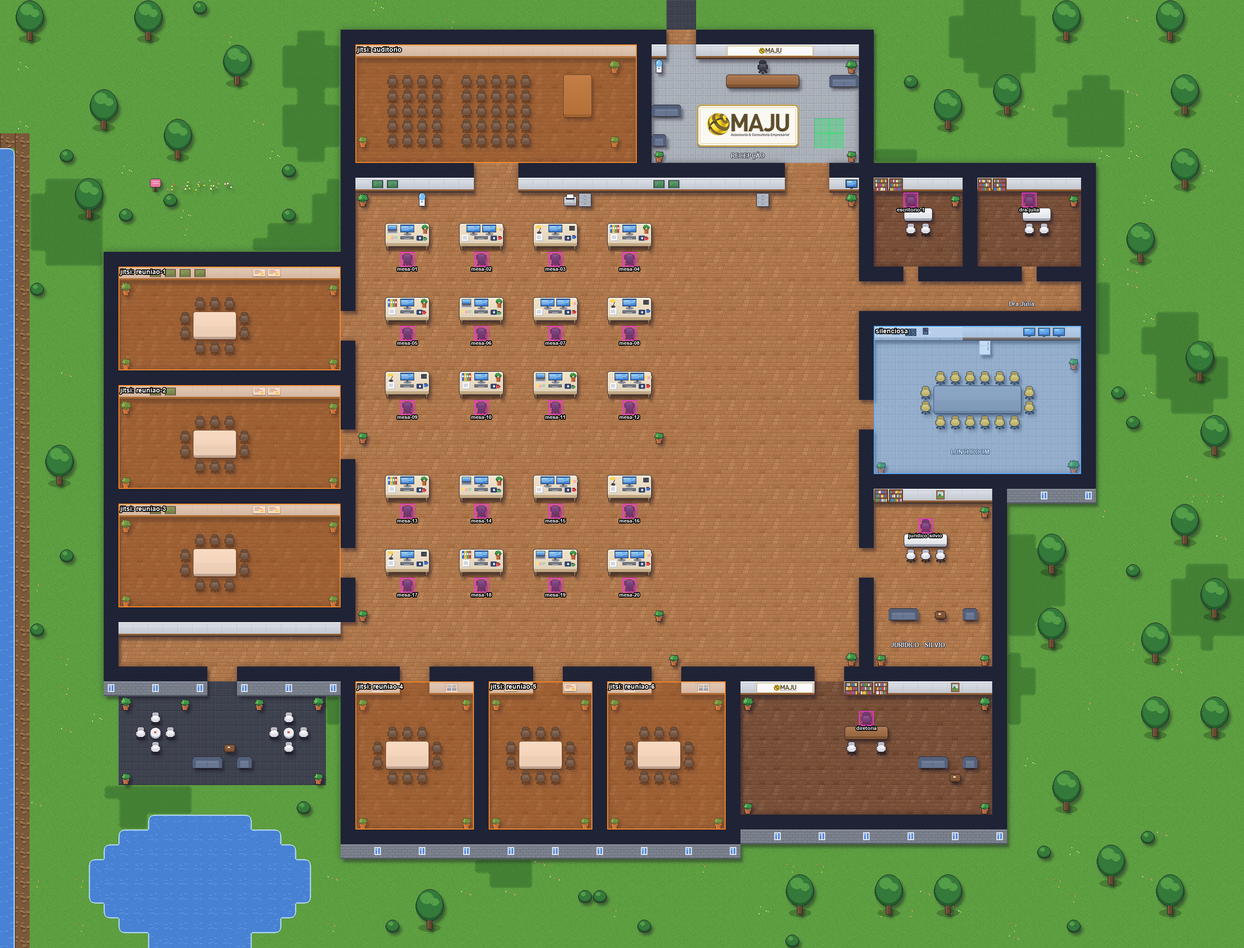
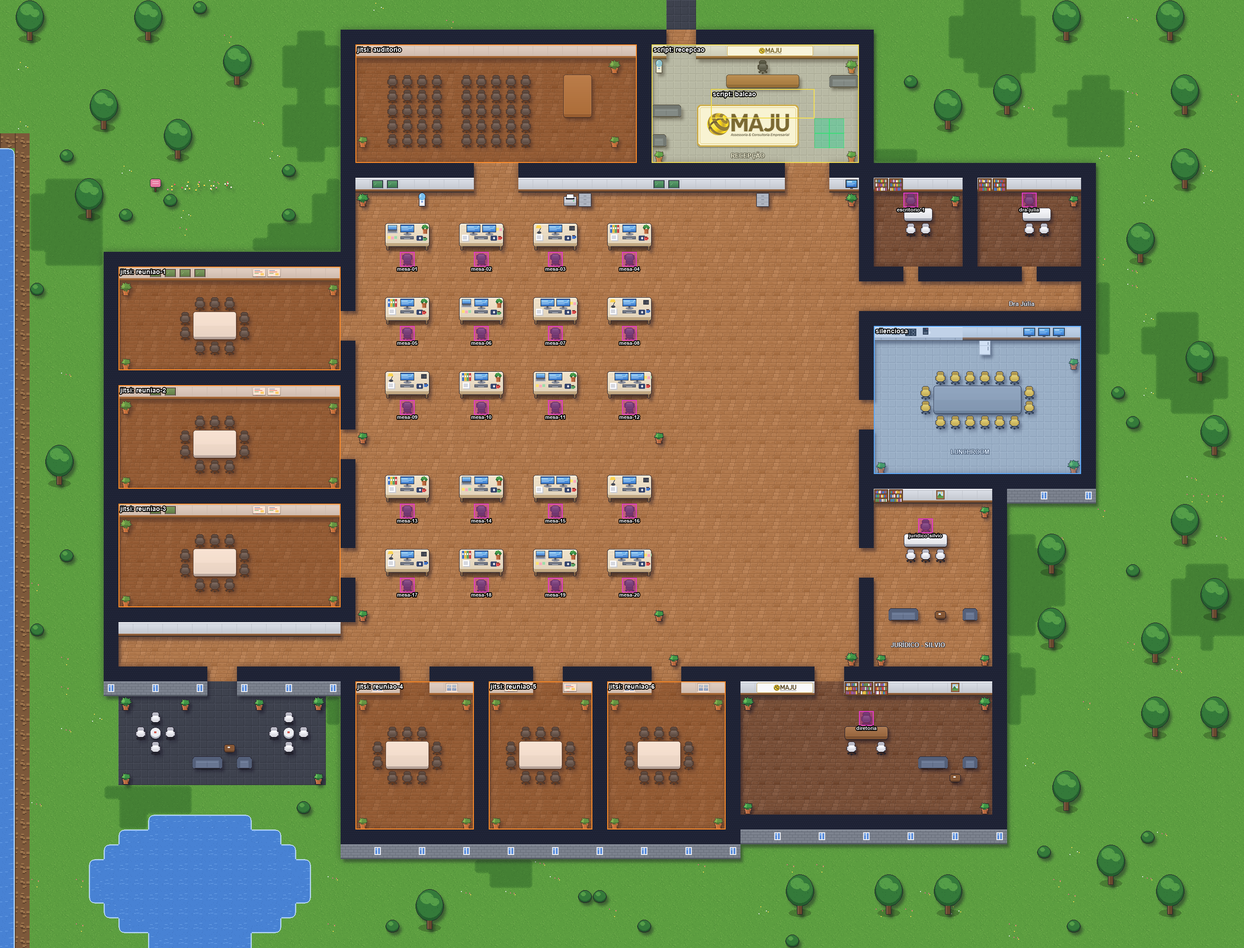
feat: boas-vindas na recepção e tutorial do escritório
Script do mapa (scripts/boas-vindas.js): tutorial abre na primeira visita,
popup de boas-vindas ao entrar na recepção e ESPAÇO no balcão para rever.
Tutorial em tutorial/index.html com imagens do próprio mapa.

Changed region(s): [[0.5, 0.0312, 0.6875, 0.1875]]

diff --git a/tutorial/index.html b/tutorial/index.html
@@ -1,0 +1,170 @@
+<!doctype html>
+<html lang="pt-BR">
+<head>
+<meta charset="utf-8">
+<meta name="viewport" content="width=device-width, initial-scale=1">
+<title>Como funciona o escritório</title>
+<style>
+  :root {
+    --ouro: #c49a3c;
+    --ouro-claro: #f3e6c4;
+    --tinta: #2b2a30;
+    --texto: #4a4852;
+    --fundo: #faf8f3;
+    --cartao: #ffffff;
+    --borda: #e6e0d2;
+  }
+  * { box-sizing: border-box; }
+  html, body { margin: 0; height: 100%; }
+  body {
+    font-family: "Segoe UI", system-ui, -apple-system, Roboto, Arial, sans-serif;
+    background: var(--fundo); color: var(--texto);
+    display: flex; flex-direction: column;
+  }
+  header {
+    display: flex; align-items: center; gap: 12px;
+    padding: 14px 20px; border-bottom: 1px solid var(--borda); background: var(--cartao);
+  }
+  header img { height: 34px; }
+  header .passo { margin-left: auto; font-size: 13px; color: #8a8578; }
+  main { flex: 1; overflow: auto; padding: 20px; }
+  .slide { display: none; max-width: 760px; margin: 0 auto; }
+  .slide.ativo { display: block; animation: entra .25s ease-out; }
+  @keyframes entra { from { opacity: 0; transform: translateY(6px); } to { opacity: 1; transform: none; } }
+  h1 { color: var(--tinta); font-size: 22px; margin: 4px 0 10px; }
+  p { line-height: 1.55; margin: 8px 0; }
+  .figura {
+    margin: 14px 0; border-radius: 12px; overflow: hidden; border: 1px solid var(--borda);
+    background: #1d1c22;
+  }
+  .figura img { display: block; width: 100%; height: auto; image-rendering: pixelated; }
+  .dicas { display: grid; gap: 10px; grid-template-columns: repeat(auto-fit, minmax(210px, 1fr)); margin: 14px 0; }
+  .dica { background: var(--cartao); border: 1px solid var(--borda); border-radius: 10px; padding: 12px 14px; }
+  .dica b { color: var(--tinta); display: block; margin-bottom: 4px; }
+  kbd {
+    display: inline-block; min-width: 22px; padding: 1px 6px; border-radius: 5px; text-align: center;
+    border: 1px solid #cfc7b4; border-bottom-width: 2px; background: #fff; font: 600 12px/1.6 inherit; color: var(--tinta);
+  }
+  .destaque { background: var(--ouro-claro); border-left: 4px solid var(--ouro); padding: 10px 14px; border-radius: 6px; margin: 12px 0; }
+  footer {
+    display: flex; align-items: center; gap: 10px;
+    padding: 12px 20px; border-top: 1px solid var(--borda); background: var(--cartao);
+  }
+  .pontos { display: flex; gap: 6px; margin-right: auto; }
+  .pontos span { width: 8px; height: 8px; border-radius: 50%; background: #d9d2c1; }
+  .pontos span.ativo { background: var(--ouro); }
+  button {
+    font: 600 14px inherit; padding: 9px 18px; border-radius: 8px; cursor: pointer; border: 1px solid var(--borda);
+    background: var(--cartao); color: var(--tinta);
+  }
+  button.principal { background: var(--ouro); border-color: var(--ouro); color: #fff; }
+  button:disabled { opacity: .4; cursor: default; }
+  @media (max-width: 520px) {
+    main { padding: 14px; }
+    h1 { font-size: 19px; }
+  }
+</style>
+</head>
+<body>
+<header>
+  <img src="../assets/maju_logo.png" alt="MAJU Assessoria &amp; Consultoria Empresarial">
+  <span class="passo" id="passo"></span>
+</header>
+
+<main>
+  <section class="slide">
+    <h1>Bem-vindo(a) ao escritório virtual da MAJU</h1>
+    <p>Aqui a equipe trabalha junta mesmo à distância: cada pessoa tem um personagem, e as conversas acontecem como no escritório de verdade, chegando perto de quem você quer falar.</p>
+    <div class="figura"><img src="img/recepcao.png" alt="Recepção do escritório"></div>
+    <p>Este tutorial leva menos de 2 minutos. Você pode revê-lo quando quiser no <b>balcão da recepção</b>.</p>
+  </section>
+
+  <section class="slide">
+    <h1>Como andar</h1>
+    <div class="dicas">
+      <div class="dica"><b>Teclado</b>Use as setas <kbd>↑</kbd> <kbd>↓</kbd> <kbd>←</kbd> <kbd>→</kbd> ou <kbd>W</kbd> <kbd>A</kbd> <kbd>S</kbd> <kbd>D</kbd>.</div>
+      <div class="dica"><b>Mouse</b>Clique em um lugar do chão e o personagem anda até lá.</div>
+    </div>
+    <p>Paredes, mesas e plantas bloqueiam a passagem; cadeiras e sofás não, então dá para "sentar" neles.</p>
+  </section>
+
+  <section class="slide">
+    <h1>Conversa por proximidade</h1>
+    <p>Para falar com alguém, <b>chegue perto da pessoa</b>: o áudio e o vídeo de vocês abrem automaticamente numa bolha. Para sair da conversa, é só se afastar.</p>
+    <div class="figura"><img src="img/salao.png" alt="Salão com as mesas de trabalho"></div>
+    <div class="destaque">As mesas do salão são afastadas de propósito: sentado na sua mesa, você não entra na conversa do vizinho. Para falar com um colega, vá até a mesa dele.</div>
+  </section>
+
+  <section class="slide">
+    <h1>Salas de reunião</h1>
+    <p>O escritório tem <b>6 salas de reunião</b> e um <b>auditório</b>. Ao entrar numa delas, a videochamada da sala abre para todos que estão lá dentro. Ao sair da sala, você sai da chamada.</p>
+    <div class="figura"><img src="img/reuniao.png" alt="Salas de reunião"></div>
+    <p>Use as salas para conversas com mais pessoas ou que precisam de privacidade.</p>
+  </section>
+
+  <section class="slide">
+    <h1>Lunchroom e pátio</h1>
+    <div class="figura"><img src="img/lunch.png" alt="Lunchroom"></div>
+    <p>O <b>Lunchroom</b> é uma área silenciosa: lá ninguém entra em conversa, ideal para uma pausa.</p>
+    <div class="figura"><img src="img/patio.png" alt="Pátio externo"></div>
+    <p>Já o <b>pátio</b>, saindo pela porta de baixo à esquerda, é o lugar para um café e uma conversa descontraída.</p>
+  </section>
+
+  <section class="slide">
+    <h1>Onde fica cada coisa</h1>
+    <div class="figura"><img src="img/mapa.png" alt="Mapa completo do escritório"></div>
+    <div class="dicas">
+      <div class="dica"><b>No alto</b>Recepção e auditório.</div>
+      <div class="dica"><b>No centro</b>Salão com as mesas de trabalho.</div>
+      <div class="dica"><b>À direita</b>Escritórios, Lunchroom, Jurídico e Diretoria.</div>
+      <div class="dica"><b>À esquerda e embaixo</b>Salas de reunião e saída para o pátio.</div>
+    </div>
+  </section>
+
+  <section class="slide">
+    <h1>Últimas dicas</h1>
+    <div class="dicas">
+      <div class="dica"><b>Câmera e microfone</b>Ligue e desligue pelos botões da barra inferior.</div>
+      <div class="dica"><b>Status</b>Pelo menu, você pode indicar que está ocupado ou ausente.</div>
+      <div class="dica"><b>Convidados</b>Quem vem de fora chega aqui na recepção.</div>
+    </div>
+    <div class="destaque">Pronto! Pode fechar esta janela e bom trabalho.</div>
+  </section>
+</main>
+
+<footer>
+  <div class="pontos" id="pontos"></div>
+  <button id="voltar">Voltar</button>
+  <button id="avancar" class="principal">Avançar</button>
+</footer>
+
+<script>
+  const slides = [...document.querySelectorAll(".slide")];
+  const pontos = document.getElementById("pontos");
+  const voltar = document.getElementById("voltar");
+  const avancar = document.getElementById("avancar");
+  const passo = document.getElementById("passo");
+  slides.forEach(() => pontos.appendChild(document.createElement("span")));
+  let atual = 0;
+
+  function mostrar(i) {
+    atual = Math.max(0, Math.min(slides.length - 1, i));
+    slides.forEach((s, k) => s.classList.toggle("ativo", k === atual));
+    [...pontos.children].forEach((p, k) => p.classList.toggle("ativo", k === atual));
+    voltar.disabled = atual === 0;
+    avancar.disabled = atual === slides.length - 1;
+    avancar.textContent = atual === slides.length - 2 ? "Última dica" : "Avançar";
+    passo.textContent = `Passo ${atual + 1} de ${slides.length}`;
+    document.querySelector("main").scrollTop = 0;
+  }
+
+  voltar.addEventListener("click", () => mostrar(atual - 1));
+  avancar.addEventListener("click", () => mostrar(atual + 1));
+  document.addEventListener("keydown", (e) => {
+    if (e.key === "ArrowRight") mostrar(atual + 1);
+    if (e.key === "ArrowLeft") mostrar(atual - 1);
+  });
+  mostrar(0);
+</script>
+</body>
+</html>

diff --git a/scripts/boas-vindas.js b/scripts/boas-vindas.js
@@ -1,0 +1,91 @@
+// Boas-vindas e tutorial do escritório (API de scripts do WorkAdventure).
+//
+// - Primeira visita: o tutorial abre sozinho, esteja a pessoa onde estiver.
+// - Ao entrar na recepção: popup de boas-vindas com o nome da pessoa e o botão "Ver tutorial".
+// - No balcão da recepção: "aperte ESPAÇO" para rever o tutorial.
+//
+// As áreas "recepcao" e "balcao" e o objeto "popupRecepcao" ficam na camada floorLayer do mapa.
+
+const CHAVE_TUTORIAL = "majuTutorialVisto";
+
+let popupAberto;
+let mensagemBalcao;
+let tutorialAbertoEm = 0;   // evita abrir o popup junto com o tutorial da primeira visita
+
+function urlTutorial() {
+    return new URL("tutorial/index.html", WA.room.mapURL).toString();
+}
+
+function jaViuTutorial() {
+    try {
+        return WA.player.state[CHAVE_TUTORIAL] === true;
+    } catch (e) {
+        return false;
+    }
+}
+
+function marcarTutorialVisto() {
+    try {
+        WA.player.state.saveVariable(CHAVE_TUTORIAL, true, { public: false, persist: true, scope: "world" });
+    } catch (e) {
+        try {
+            WA.player.state[CHAVE_TUTORIAL] = true;
+        } catch (e2) {
+            // sem persistência disponível: o tutorial pode reaparecer na próxima visita
+        }
+    }
+}
+
+function fecharPopup() {
+    if (popupAberto) {
+        popupAberto.close();
+        popupAberto = undefined;
+    }
+}
+
+function abrirTutorial() {
+    fecharPopup();
+    tutorialAbertoEm = Date.now();
+    WA.ui.modal.openModal({
+        title: "Como funciona o escritório",
+        src: urlTutorial(),
+        allow: null,
+        allowApi: false,
+        position: "center",
+    });
+    marcarTutorialVisto();
+}
+
+WA.onInit().then(() => {
+    const primeiraVisita = !jaViuTutorial();
+
+    WA.room.area.onEnter("recepcao").subscribe(() => {
+        if (popupAberto || Date.now() - tutorialAbertoEm < 5000) return;
+        popupAberto = WA.ui.openPopup(
+            "popupRecepcao",
+            `Olá, ${WA.player.name}! Bem-vindo(a) à MAJU Assessoria & Consultoria Empresarial.`,
+            [
+                { label: "Ver tutorial", className: "primary", callback: () => abrirTutorial() },
+                { label: "Agora não", className: "normal", callback: () => fecharPopup() },
+            ],
+        );
+    });
+    WA.room.area.onLeave("recepcao").subscribe(() => fecharPopup());
+
+    WA.room.area.onEnter("balcao").subscribe(() => {
+        mensagemBalcao = WA.ui.displayActionMessage({
+            message: "Aperte ESPAÇO para ver como funciona o escritório",
+            callback: () => abrirTutorial(),
+        });
+    });
+    WA.room.area.onLeave("balcao").subscribe(() => {
+        if (mensagemBalcao) {
+            mensagemBalcao.remove();
+            mensagemBalcao = undefined;
+        }
+    });
+
+    if (primeiraVisita) {
+        abrirTutorial();
+    }
+}).catch((e) => console.error("[boas-vindas]", e));

diff --git a/tools/build_map.py b/tools/build_map.py
@@ -828,6 +828,8 @@ AREAS = (
     # Jitsi só em salas fechadas: a área cobre a sala inteira (quem passa no corredor não entra)
     + [(f"Reunião {i}", x0, y0, x1, y1, {"jitsiRoom": f"reuniao-{i}"}) for i, (x0, y0, x1, y1) in enumerate(MEETING_ROOMS, 1)]
     + [("Lunchroom", 59, 22, 72, 31, {"silent": True})]
+    # usadas pelo script de boas-vindas (scripts/boas-vindas.js)
+    + [("recepcao", 44, 3, 57, 10, {}), ("balcao", 48, 6, 54, 7, {})]
 )
 
 SPAWN = [(x, y) for x in (55, 56) for y in (8, 9)]   # recepção: entrada padrão (convidados)
@@ -1117,6 +1119,9 @@ def write_outputs(layers):
                            for key, val in props.items()],
         })
 
+    objects.append({"id": len(objects) + 1, "name": "popupRecepcao", "type": "", "x": 49 * T, "y": 3 * T,
+                    "width": 5 * T, "height": 2 * T, "rotation": 0, "visible": True})   # âncora do popup
+
     tmj_layers = []
     for lid, name in enumerate(LAYER_ORDER, start=1):
         if name == "floorLayer":
@@ -1141,6 +1146,7 @@ def write_outputs(layers):
         "properties": [
             {"name": "mapName", "type": "string", "value": "Escritório"},
             {"name": "mapDescription", "type": "string", "value": "Escritório virtual"},
+            {"name": "script", "type": "string", "value": "scripts/boas-vindas.js"},
         ],
         "layers": tmj_layers,
         "tilesets": [{
@@ -1164,13 +1170,25 @@ def write_outputs(layers):
     preview.convert("RGB").save(ROOT / "preview.png")
     preview.convert("RGB").resize((W * T * 2, H * T * 2), Image.NEAREST).save(ROOT / "preview_2x.png")
 
+    # imagens do tutorial (trechos do próprio mapa)
+    shots = {"recepcao": (43, 2, 59, 12), "salao": (23, 11, 47, 31), "reuniao": (7, 17, 24, 33),
+             "lunch": (58, 21, 74, 33), "patio": (6, 41, 24, 54)}
+    out_dir = ROOT / "tutorial" / "img"; out_dir.mkdir(parents=True, exist_ok=True)
+    for key, (x0, y0, x1, y1) in shots.items():
+        preview.crop((x0 * T, y0 * T, x1 * T, y1 * T)).convert("RGB").save(out_dir / f"{key}.png")
+    preview.convert("RGB").resize((W * T // 2, H * T // 2), Image.LANCZOS).save(out_dir / "mapa.png")
+
     overlay = new(W * T, H * T); d = ImageDraw.Draw(overlay)
     font = ImageFont.truetype("arialbd.ttf", 14)
     for name, x0, y0, x1, y1, props in AREAS:
         box = [x0 * T, y0 * T, (x1 + 1) * T - 1, (y1 + 1) * T - 1]
-        col = (255, 140, 40) if "jitsiRoom" in props else (90, 170, 255)
-        d.rectangle(box, fill=col + (70,), outline=col + (255,), width=2)
-        text = f"jitsi: {props['jitsiRoom']}" if "jitsiRoom" in props else "silenciosa"
+        if "jitsiRoom" in props:
+            col, text = (255, 140, 40), f"jitsi: {props['jitsiRoom']}"
+        elif props.get("silent"):
+            col, text = (90, 170, 255), "silenciosa"
+        else:
+            col, text = (240, 220, 80), f"script: {name}"
+        d.rectangle(box, fill=col + (50,), outline=col + (255,), width=2)
         d.text((box[0] + 4, box[1] + 3), text, font=font, fill=(255, 255, 255, 255),
                stroke_width=2, stroke_fill=(0, 0, 0, 255))
     for k, gid in enumerate(data["start"]):
